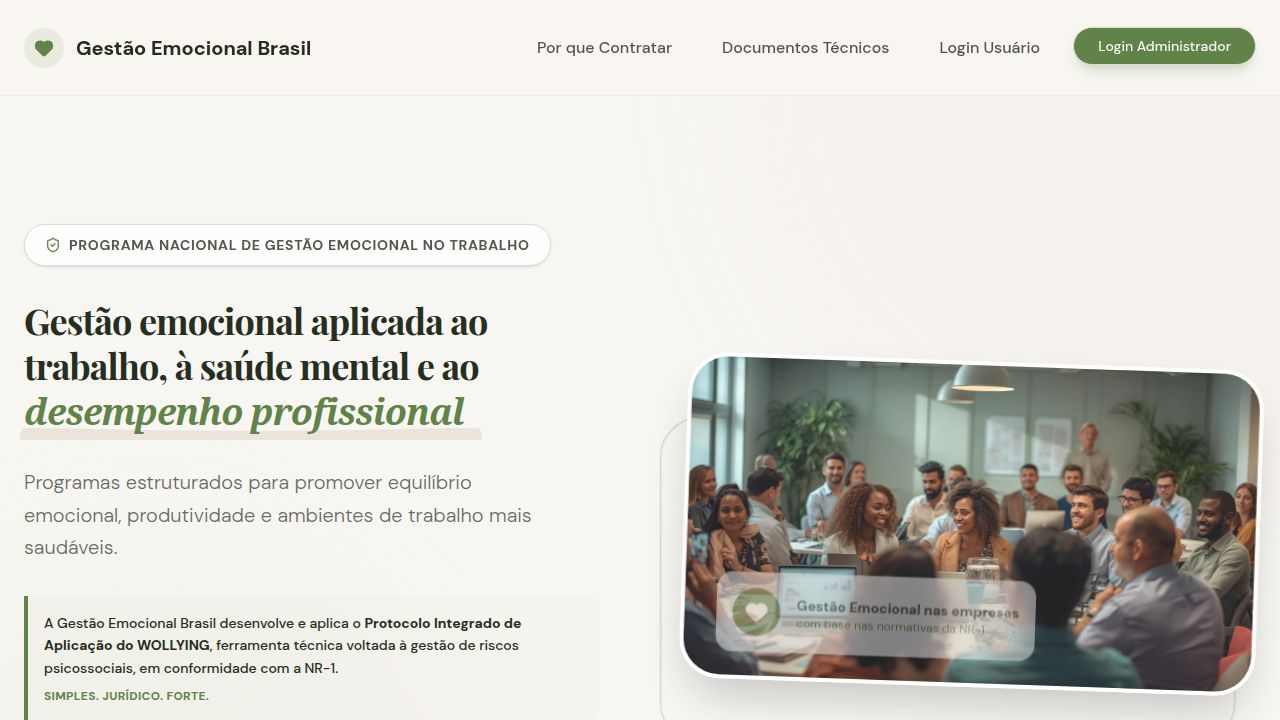
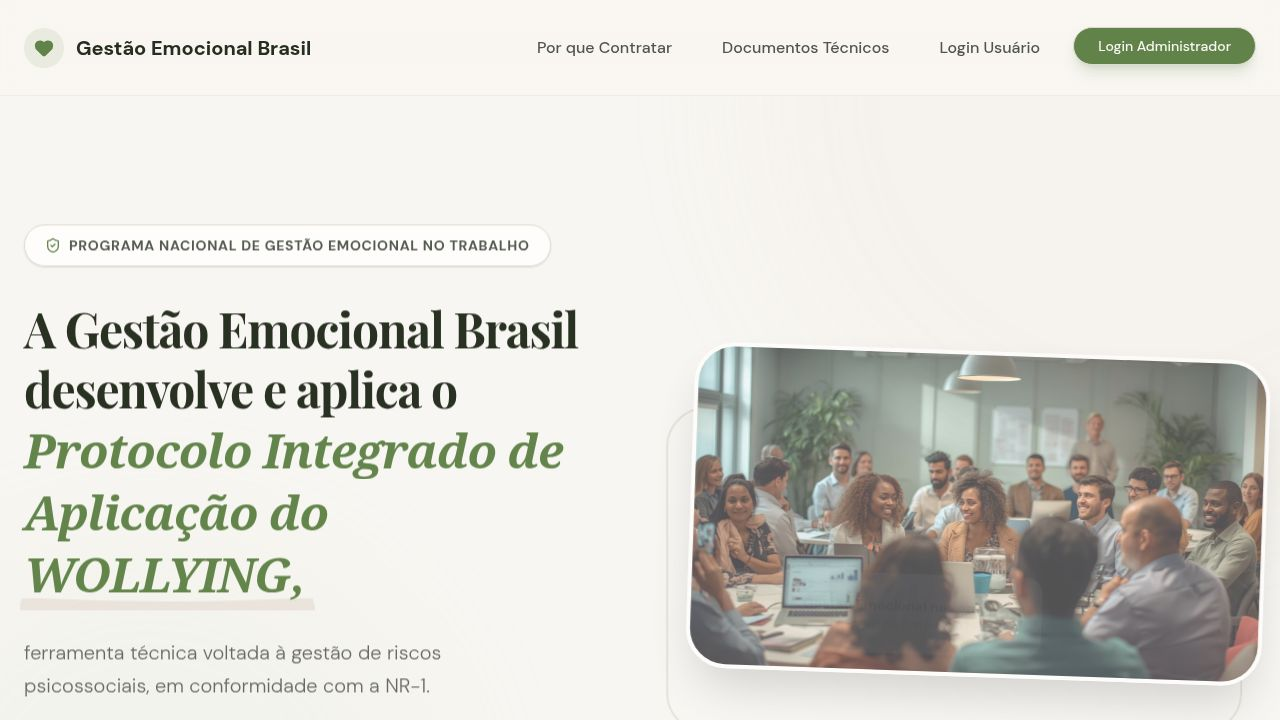
Update the platform's core messaging about the WOLLYING methodology
Update the landing page content to define WOLLYING, attribute the methodology to Gestão Emocional Brasil, and emphasize its role in NR-1 compliance and creating a healthy work environment.

Replit-Commit-Author: Agent
Replit-Commit-Session-Id: 4cc987fa-519f-4bd8-822d-c3cd19681768
Replit-Commit-Checkpoint-Type: full_checkpoint
Replit-Commit-Event-Id: 55401cfa-6920-4653-8302-f8779a4e92f4
Replit-Commit-Screenshot-Url: https://storage.googleapis.com/screenshot-production-us-central1/67695f3d-8801-4f3e-8069-46e3bb012fd4/4cc987fa-519f-4bd8-822d-c3cd19681768/MedqR3g
Replit-Helium-Checkpoint-Created: true

diff --git a/client/src/App.tsx b/client/src/App.tsx
@@ -228,13 +228,16 @@ const Landing = () => (
       {/* Target Audience Section - NR-1 */}
       <section className="py-24 bg-white relative overflow-hidden">
         <div className="max-w-7xl mx-auto px-6 relative z-10">
-          <div className="text-center max-w-3xl mx-auto mb-16">
+          <div className="text-center max-w-4xl mx-auto mb-16">
              <div className="inline-flex items-center gap-2 px-4 py-1.5 rounded-full bg-secondary/30 text-primary-foreground text-sm font-bold uppercase tracking-wider mb-6">
-              <ShieldCheck size={14} /> Conformidade NR-1
+              <ShieldCheck size={14} /> Metodologia Exclusiva
             </div>
-            <h2 className="text-4xl md:text-5xl font-heading font-bold text-foreground mb-6">Para quem é a NR-1 (NRU)?</h2>
-            <p className="text-xl text-foreground/70 font-light leading-relaxed">
-              A NR-1 é destinada a todas as organizações, instituições e pessoas responsáveis por ambientes de trabalho, independentemente do porte, formato jurídico ou área de atuação.
+            <h2 className="text-4xl md:text-5xl font-heading font-bold text-foreground mb-6">O que é WOLLYING?</h2>
+            <p className="text-xl text-foreground/70 font-light leading-relaxed mb-6">
+              O WOLLYING designa o fenômeno da violência psicológica, sutil e sistemática, perpetrada especificamente por mulheres contra outras mulheres no ambiente corporativo.
+            </p>
+            <p className="text-lg text-muted-foreground leading-relaxed max-w-3xl mx-auto">
+              A <strong>Gestão Emocional Brasil</strong> é a plataforma oficial que aplica o Protocolo Integrado de Aplicação do WOLLYING. Nossa plataforma atua na identificação, prevenção e gestão de riscos psicossociais, garantindo que sua organização esteja em conformidade com a NR-1 enquanto promove um ambiente de trabalho verdadeiramente saudável e produtivo.
             </p>
           </div>
 
